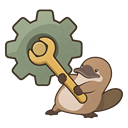
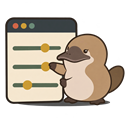
Replace gear repair with adjusting a settings slider

diff --git a/docs/STATUS.md b/docs/STATUS.md
@@ -4,7 +4,7 @@
 
 후속 마감: 전투/상점·입찰/소셜을 면과 금색 선의 큰 머리말로 구분했다. 음식·측후·소셜 상세는 부모 기능 아래 들여쓴 배경/연결선 안에서 열며 측후 성공·실패/콤보 실패는 그 안의 하위 카드다. 소셜 박자 기준은 새 세부 설정 안으로 옮겼다. 세 플러그인의 읽은 내역 버튼은 업데이트 내역 보기로 명확히 했다. 별도→정규 빌드 경고0/오류0·한영86키/내장 자료와 넓은 스모크/좁은 영어·큰 글꼴 펄 정적 렌더 확인 완료. 실제 토글/선택/스크롤·저장/재로드 및 기존 실시간 조절 확인은 대기다.
 
-- **개발본0.3.0.0 공통 디자인**: 대표 아이콘은 원본 캐릭터를 직접 참조해 몸을 기울여 큰 렌치/톱니바퀴를 조정하는 동작의 투명 그림으로 바꿨다. 글자/원형 배지/파란 배경을 제거하고 세 플러그인의 화풍을 맞췄다. 512/128/64px·스모크/펄 축소 확인 완료, 게시/실제 설치 목록 확인은 대기다. [원본·프롬프트](../assets/README.md). 설정/세부 설정/업데이트 내역을 ImGui로 전환했다. 전투·상점/입찰·소셜 구역, 관련 기능 아래 펼치는 음식/측후·콤보 상세, 스모크/펄 두 테마·한영 선택을 제공한다. 상점·입찰·필요 재화·준비 확인 음식은 게임 UI에 유지한다. 기존 설정·기본값/이전값 이행을 보존했다. 직접 별도→정규 Debug 빌드 경고0/오류0, 내장 자료/한영79키 검사와 실제 DrawData 대표 렌더 완료. 후속 견본에 맞춘 두 테마·목록의 실제 아이콘·결과별 구역을 반영했으며 게임 조작·설정 보존/읽음 재로드는 확인 대기이며 미배포다. [구조/확인](NATIVE-UI.md#관리-화면과-게임-ui-분리-2026-11-15).
+- **개발본0.3.0.0 공통 디자인**: 대표 아이콘은 원본 그림을 직접 편집해 기어/렌치 대신 큰 설정 패널의 슬라이더를 미는 동작의 투명 그림으로 바꿨다. 글자/원형 배지/파란 배경을 제거하고 세 플러그인의 화풍을 맞췄다. 512/128/64px·스모크/펄 축소 확인 완료, 게시/실제 설치 목록 확인은 대기다. [원본·프롬프트](../assets/README.md). 설정/세부 설정/업데이트 내역을 ImGui로 전환했다. 전투·상점/입찰·소셜 구역, 관련 기능 아래 펼치는 음식/측후·콤보 상세, 스모크/펄 두 테마·한영 선택을 제공한다. 상점·입찰·필요 재화·준비 확인 음식은 게임 UI에 유지한다. 기존 설정·기본값/이전값 이행을 보존했다. 직접 별도→정규 Debug 빌드 경고0/오류0, 내장 자료/한영79키 검사와 실제 DrawData 대표 렌더 완료. 후속 견본에 맞춘 두 테마·목록의 실제 아이콘·결과별 구역을 반영했으며 게임 조작·설정 보존/읽음 재로드는 확인 대기이며 미배포다. [구조/확인](NATIVE-UI.md#관리-화면과-게임-ui-분리-2026-11-15).
 - 다음 한 작업: 세부 설정을 차례로 열고 닫아 부모 기능 아래에 표시되는지, 좁은 폭의 측후 한 열 배치·색/아이콘 팝업·마우스 휠·소셜 박자 저장/재로드를 확인한다. 기존 네이티브 게임 UI/실시간 화면 조절 확인 대기는 유지한다.
 
[1 lines of base64/hex data omitted]

diff --git a/assets/README.md b/assets/README.md
@@ -1,10 +1,10 @@
 # 설치 목록 이미지
 
-2026-11-15 개발 후보: 기존 오리너구리 얼굴/몸 비율을 유지하고 몸을 기울여 큰 렌치로 톱니바퀴를 조정하는 자세로 바꿨습니다. 기능을 먼저 구분하도록 도구를 키우고 글자·원형 배지·파란 배경·작은 소품은 제거했습니다. Fisher/Calendar와 윤곽선·색감을 맞췄습니다.
+2026-11-15 개발 후보: 원본 그림을 직접 편집해 얼굴/몸통을 우선하고, 큰 설정 패널의 슬라이더를 짧은 앞발로 미는 동작으로 바꿨습니다. 렌치/기어는 제거했고 설정 조절 기능을 먼저 구분하도록 패널을 키웠습니다. 또한 글자·원형 배지·파란 배경·작은 소품은 제거했습니다. Fisher/Calendar와 윤곽선·색감을 맞췄습니다.
 
 Dalamud 설치 목록 대표 아이콘은 `assets/duckbilltweak-icon.png`(512×512 RGBA 투명 PNG)입니다.
 생성 원본은 `source/duckbilltweak-icon-master.png`(1254×1254), 실제 축소본은 `previews/duckbilltweak-128.png` / `previews/duckbilltweak-64.png`입니다. 스모크/펄 배경에서 기능 구분과 윤곽을 확인했습니다.
-[icon-prompt.txt](icon-prompt.txt)에 built-in image_gen의 전체 프롬프트와 기존 Tweak `1007366`/Fisher `aced4cc` 원본의 직접 참조 이력을 기록했습니다. 생성 후에는 System.Drawing HighQualityBicubic으로 alpha/비율을 유지해 크기만 정규화했습니다.
+[icon-prompt.txt](icon-prompt.txt)에 built-in image_gen의 전체 프롬프트와 기존 Tweak `1007366` 원본의 직접 편집 이력을 기록했습니다. 생성 후에는 System.Drawing HighQualityBicubic으로 alpha/비율을 유지해 크기만 정규화했습니다.
 사용자가 제공했던 이전 원본 `source/DuckbillTweak_smooth_edge.png`는 그대로 보존하며 이전 원형 대표 PNG는 Git 이력에 남습니다.
 
 csproj의 `IconUrl`은 `v0.2.0.0` 등 각 버전 태그의 대표 아이콘을 가리킵니다.
